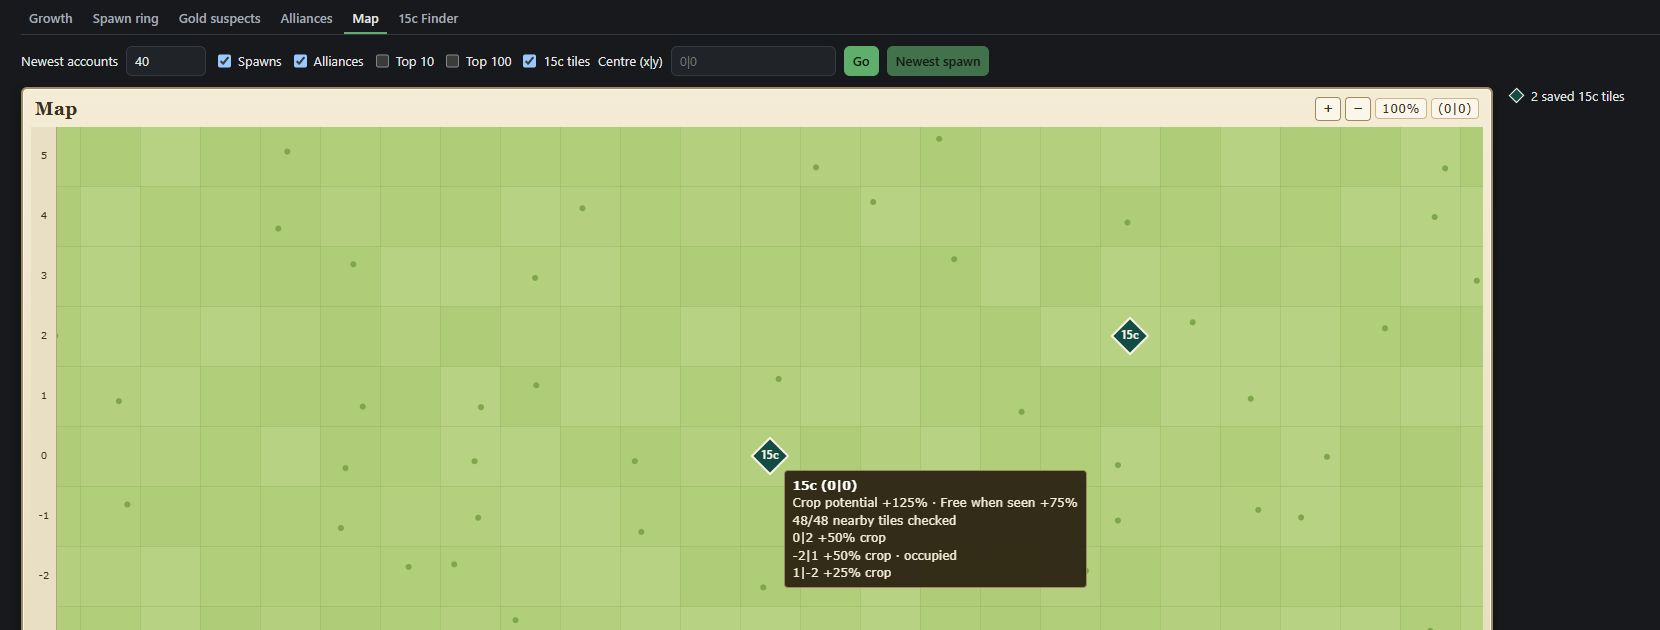
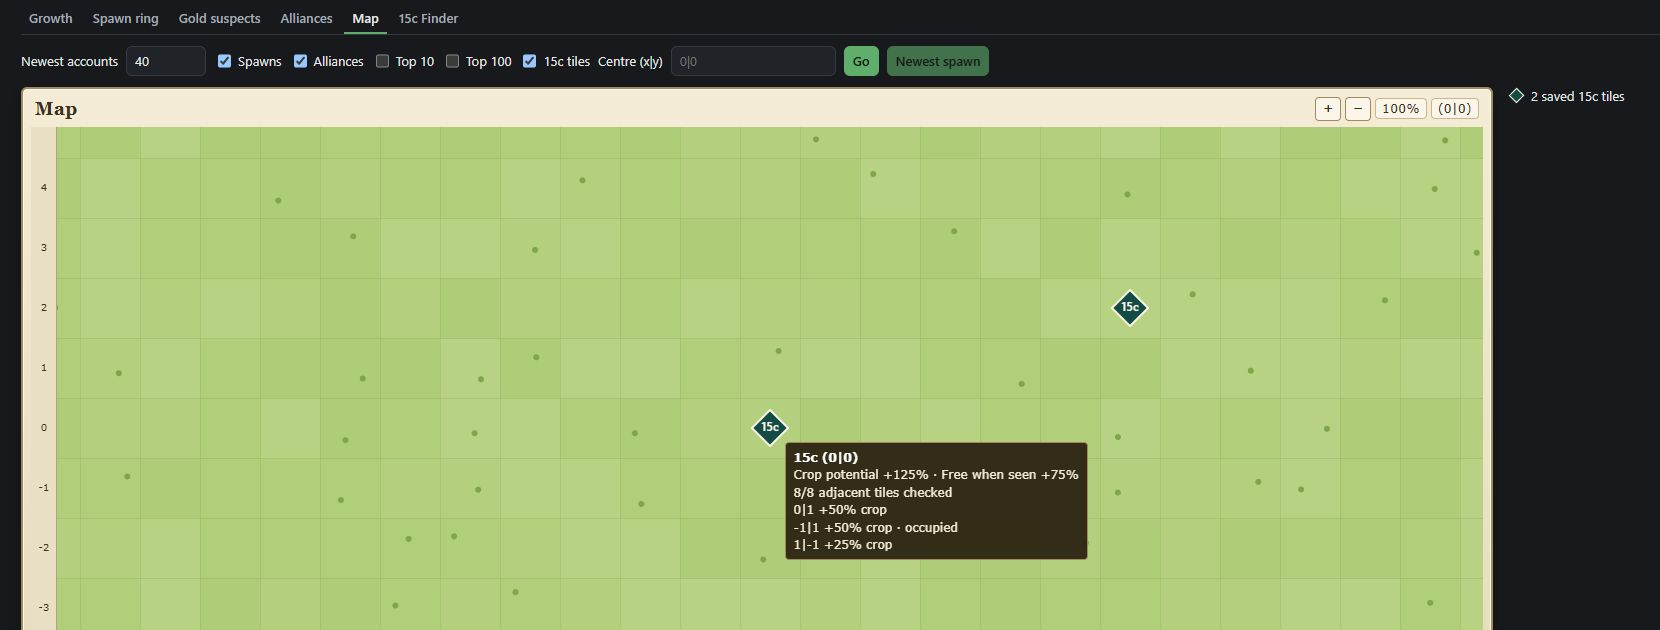
Keep valid cropper tiles in mixed map batches

Changed region(s): [[0.4301, 0.6635, 0.6759, 0.9349], [0.6452, 0.4524, 0.7066, 0.573]]

diff --git a/projects/travian-extensions/extensions/WorldWatch/cropper-collector.js b/projects/travian-extensions/extensions/WorldWatch/cropper-collector.js
@@ -1,16 +1,25 @@
-// Read the coordinates and layout from the same visible game tooltip.
+// Read coordinates and layout from a game tooltip or the opened tile details.
 (() => {
 	"use strict";
-	const selector = '[role="tooltip"][data-theme="travian"][data-state="visible"]';
+	const selector = '#tileDetails, [role="tooltip"][data-theme="travian"][data-state="visible"]';
+	const cropperLayout = ["1", "1", "1", "15"];
 	const seen = new Set();
 	const coordinate = (el) => {
 		const text = el?.textContent.replace(/[\u061c\u200e\u200f\u202a-\u202e\u2066-\u2069()\s]/g, "").replace(/−/g, "-");
 		return /^-?\d+$/.test(text) ? Number(text) : NaN;
 	};
 
-	function inspect(tooltip) {
-		if (!/(?<![\d-])1\s*-\s*1\s*-\s*1\s*-\s*15\s*$/.test(tooltip.querySelector(".title")?.textContent ?? "")) return;
-		const pair = tooltip.querySelector(".coordinatesWrapper");
+	function inspect(tile) {
+		let pair;
+		if (tile.id === "tileDetails") {
+			const rows = [...tile.querySelectorAll("#distribution tr")];
+			if (rows.length !== 4 || !cropperLayout.every((count, i) => rows.some((row) =>
+				row.querySelector(`.ico .r${i + 1}`) && row.querySelector(".val")?.textContent.trim() === count))) return;
+			pair = tile.querySelector("h1 .coordinatesWrapper");
+		} else {
+			if (!/(?<![\d-])1\s*-\s*1\s*-\s*1\s*-\s*15\s*$/.test(tile.querySelector(".title")?.textContent ?? "")) return;
+			pair = tile.querySelector(".coordinatesWrapper");
+		}
 		const x = coordinate(pair?.querySelector(".coordinateX"));
 		const y = coordinate(pair?.querySelector(".coordinateY"));
 		if (![x, y].every(Number.isSafeInteger)) return;
@@ -25,8 +34,8 @@
 	const observer = new MutationObserver((records) => {
 		for (const record of records) {
 			const target = record.target.nodeType === 1 ? record.target : record.target.parentElement;
-			const tooltip = target?.closest(selector);
-			if (tooltip) inspect(tooltip);
+			const tile = target?.closest(selector);
+			if (tile) inspect(tile);
 			for (const node of record.addedNodes) {
 				if (node.nodeType !== 1) continue;
 				if (node.matches(selector)) inspect(node);

diff --git a/projects/travian-extensions/extensions/WorldWatch/lib/croppers.js b/projects/travian-extensions/extensions/WorldWatch/lib/croppers.js
@@ -3,6 +3,7 @@
 	"use strict";
 	// Travian's map dictionary (karte.json) maps f6 to 1-1-1-15.
 	const cropperTitle = /^\s*\{k\.vt\}\s*\{k\.f6\}\s*$/;
+	const OASIS_RADIUS = 1;
 
 	function mapResponseHost(rawUrl) {
 		const url = URL.parse(rawUrl);
@@ -45,8 +46,8 @@
 		const nearby = [];
 		let seen = 0;
 		const wrap = (n) => ((n + 200) % 401 + 401) % 401 - 200;
-		for (let dy = -3; dy <= 3; dy++) {
-			for (let dx = -3; dx <= 3; dx++) {
+		for (let dy = -OASIS_RADIUS; dy <= OASIS_RADIUS; dy++) {
+			for (let dx = -OASIS_RADIUS; dx <= OASIS_RADIUS; dx++) {
 				if (!dx && !dy) continue;
 				const ox = wrap(x + dx), oy = wrap(y + dy);
 				const observation = observations[`${ox}|${oy}`];
@@ -58,7 +59,7 @@
 		nearby.sort((a, b) => b.crop - a.crop || Number(a.occupied) - Number(b.occupied) || a.distance - b.distance);
 		const best = nearby.slice(0, 3);
 		const sum = (list) => list.reduce((total, oasis) => total + oasis.crop, 0);
-		return { seen, best, potential: sum(best), free: sum(nearby.filter((oasis) => !oasis.occupied).slice(0, 3)) };
+		return { seen, total: (2 * OASIS_RADIUS + 1) ** 2 - 1, best, potential: sum(best), free: sum(nearby.filter((oasis) => !oasis.occupied).slice(0, 3)) };
 	}
 
 	root.WWCroppers = { mapResponseHost, mapTiles, oasisScore };

diff --git a/projects/travian-extensions/extensions/WorldWatch/background.js b/projects/travian-extensions/extensions/WorldWatch/background.js
@@ -32,10 +32,12 @@ async function saveTiles(host, observations, fromMap) {
 }
 
 function queueTiles(host, tiles, sendResponse, fromMap = false) {
-	if (!host || !Array.isArray(tiles) || !tiles.length || tiles.length > 2000 || !tiles.every((tile) =>
+	if (!host || !Array.isArray(tiles) || !tiles.length || tiles.length > 2000) return false;
+	const valid = tiles.filter((tile) =>
 		tile && [tile.x, tile.y].every((n) => Number.isInteger(n) && Math.abs(n) <= 200) &&
-		(!fromMap || ([0, 25, 50].includes(tile.crop) && (!tile.crop || typeof tile.occupied === "boolean"))))) return false;
-	const write = cropperWrites.then(() => saveTiles(host, tiles, fromMap));
+		(!fromMap || ([0, 25, 50].includes(tile.crop) && (!tile.crop || typeof tile.occupied === "boolean"))));
+	if (!valid.length) return false;
+	const write = cropperWrites.then(() => saveTiles(host, valid, fromMap));
 	cropperWrites = write.catch(() => {});
 	write.then(() => sendResponse({ ok: true }), () => sendResponse({ ok: false }));
 	return true;

diff --git a/projects/travian-extensions/extensions/WorldWatch/dashboard.js b/projects/travian-extensions/extensions/WorldWatch/dashboard.js
@@ -163,7 +163,7 @@
 			const host = $("host").value;
 			const rows = (await scoredCroppers(host)).map((tile) => ({
 				point: `${tile.x}|${tile.y}`, layout: "1-1-1-15", seen: fmtTime(tile.seenAt),
-				potential: bonus(tile.potential, tile.seen), free: bonus(tile.free, tile.seen), coverage: `${tile.seen}/48`,
+				potential: bonus(tile.potential, tile.seen), free: bonus(tile.free, tile.seen), coverage: `${tile.seen}/${tile.total}`,
 				oases: tile.best.map(({ x, y, crop, occupied }) => `${x}|${y} +${crop}% (${occupied ? "occupied" : "free"})`).join(", ") || "—",
 				href: `https://${host}/map?x=${tile.x}&y=${tile.y}`,
 			}));

diff --git a/projects/travian-extensions/extensions/WorldWatch/dashboard.html b/projects/travian-extensions/extensions/WorldWatch/dashboard.html
@@ -34,7 +34,7 @@
 		</nav>
 		<section id="controls-croppers" class="row" aria-label="15c Finder" hidden>
 			<a id="cropper-map" target="_blank" rel="noopener" hidden>Open game map</a>
-			<span class="summary">Pan the game map at 100% with DevTools open to collect 15c tiles and oasis data. Confirm availability in-game.</span>
+			<span class="summary">Pan at 100% with DevTools open to collect 15c tiles and 3 × 3 oasis data. Opening a 15c tile in-game also saves it.</span>
 		</section>
 		<section id="controls-map" class="row" hidden>
 			<label for="map-count">Newest accounts</label>

diff --git a/projects/travian-extensions/extensions/WorldWatch/map-view.js b/projects/travian-extensions/extensions/WorldWatch/map-view.js
@@ -471,7 +471,7 @@
 			if (cropper) {
 				lines[0] = `15c (${fx}|${fy})`;
 				lines.push(cropper.seen ? `Crop potential +${cropper.potential}% · Free when seen +${cropper.free}%` : "Oasis bonuses unknown");
-				lines.push(`${cropper.seen}/48 nearby tiles checked`);
+				lines.push(`${cropper.seen}/${cropper.total} adjacent tiles checked`);
 				for (const oasis of cropper.best) lines.push(`${oasis.x}|${oasis.y}  +${oasis.crop}% crop${oasis.occupied ? " · occupied" : ""}`);
 			}
 			if (i != null) {

diff --git a/projects/travian-extensions/extensions/WorldWatch/README.md b/projects/travian-extensions/extensions/WorldWatch/README.md
@@ -19,16 +19,16 @@ Tracks a Travian Legends game world over time from its public `map.sql` dump. Us
 | Spawn ring | Per quadrant (NE/NW/SE/SW): the newest N accounts by uid (default 40). Spawn village = lowest village id per account. Min, median and max distance from 0\|0 and the newest spawn coordinates. |
 | Gold suspects | Population gain per account between two snapshots, gain per hour, Δ villages and distance to a point. Rows above the 99th percentile gain are highlighted. Only accounts present in both snapshots are compared. A Δ villages above 0 means part of the gain comes from a new or conquered village. |
 | Alliances | Members, villages, population, population-weighted centre and main quadrant. |
-| 15c Finder | Confirmed `1-1-1-15` tiles ranked by the best three observed crop bonuses in their 7 × 7 area. The table shows the potential, how much was free when observed, and how much of the area was checked. Click a coordinate to reopen the tile. |
+| 15c Finder | Confirmed `1-1-1-15` tiles ranked by the best three observed crop bonuses in their centered 3 × 3 area. The table shows the potential, how much was free when observed, and how much of the area was checked. Click a coordinate to reopen the tile. |
 | Map | Travian-style map: 60 px per field at 100 %, like the in-game map. The window fills the free page area (at least 543 × 401 px, the in-game size). Zoom from 100 % down to the whole world; drag to pan, mouse wheel to zoom. Lines mark the world edge at ±200. Newest spawns are highlighted and their distance band from 0\|0 is shaded; the top 10 alliances are coloured and labelled at their centre. **Top 10** and **Top 100** mark the largest accounts by population (red and white rings); Top 10 are labelled with rank and name at their largest village. Hover a field for player, alliance, population and rank. |
 
 **Your village:** `own-village.js` reads your player name and village list (names and coordinates) from the game sidebar on any page you open in that world, and stores them per world. The dashboard then shows a **Your village** selector, fills **Point (x|y)** and **Centre (x|y)** with the selected village (the inputs stay editable; a typed value is not overwritten), and rings your villages blue on the map.
 
 Every table exports to CSV. Nature and Natar villages are ignored. Positive y is north. Distances wrap around the 401 × 401 map.
 
-**Finding a 15c:** Open DevTools (`F12`) in the game tab, then open the map or reload it and pan normally. World Watch reads the game's completed map responses and saves confirmed `1-1-1-15` coordinates locally, even if the world is not on the watch list. You can also hover over valleys to save individual matches with DevTools closed. The finder does not track current occupancy. Check the tile in-game before settling. Collection is disabled on Europe 1 (`ts1.x1.europe.travian.com`).
+**Finding a 15c:** Open DevTools (`F12`) in the game tab, then open the map or reload it and pan normally. World Watch reads the game's completed map responses and saves confirmed `1-1-1-15` coordinates locally, even if the world is not on the watch list. Hover over a valley or open its details to save individual matches with DevTools closed. The finder does not track current occupancy. Check the tile in-game before settling. Collection is disabled on Europe 1 (`ts1.x1.europe.travian.com`).
 
-**Mapping and comparing 15c tiles:** Pan at 100% zoom with DevTools open to collect nearby oasis bonuses. In World Watch, the **Map** tab shows teal diamonds for saved 15c tiles, including worlds without a snapshot. Hover a marker for the best observed bonuses and coverage. Crop potential can include occupied oases. **Free when seen** counts only oases that were unoccupied at their last observation. Both totals are limited to three oases and are partial until all 48 surrounding tiles have been checked. Verify ownership and settlement availability in-game.
+**Mapping and comparing 15c tiles:** Pan at 100% zoom with DevTools open to collect nearby oasis bonuses. In World Watch, the **Map** tab shows teal diamonds for saved 15c tiles, including worlds without a snapshot. Hover a marker for the best observed bonuses and coverage. Crop potential can include occupied oases. **Free when seen** counts only oases that were unoccupied at their last observation. Both totals are limited to three oases and reflect the eight adjacent tiles in the finder’s 3 × 3 scoring area. Verify ownership and settlement availability in-game.
 
 ## Live mode
 

diff --git a/projects/travian-extensions/docs/USAGE.md b/projects/travian-extensions/docs/USAGE.md
@@ -171,7 +171,7 @@ Refreshes when you open the popup or click **Refresh**; there are no background 
 4. **Growth** lists sign-ups (highest account id) per snapshot. **Spawn ring** shows, per quadrant, the distance range of the newest accounts' first villages; change **Newest accounts** to widen the sample.
 5. **Gold suspects** ranks accounts by population gain between the two snapshots. Enter a point (`x|y`) and a radius to limit the list to accounts with a village nearby. Highlighted rows are above the 99th percentile; check **Δ villages**, because a new or conquered village also raises population.
 6. **Map** opens at 100 % (60 px per field, as in game) on the newest spawn. Yellow villages are the newest accounts; the yellow band is their distance from 0|0. Coloured villages and labels are the top 10 alliances. Drag to pan, use the wheel or **+**/**−** to zoom down to the whole world, and enter **Centre (x|y)** to jump. Lines mark the world edge. Tick **Top 10** or **Top 100** to ring the largest accounts by population; Top 10 are labelled and listed in the legend. Hover a village for its owner.
-7. **15c Finder** ranks saved 15c tiles by the crop bonus of the best three observed oases in the surrounding 7 × 7 area. Open DevTools (F12) in the game tab, reload the map at 100% and pan normally to collect tile data. Hovering with DevTools closed saves individual 15c matches. The **Map** tab marks saved tiles with teal diamonds. Hover a diamond for the potential, how much was free when seen, and the number of nearby tiles checked. Confirm availability in-game. Collection is disabled on Europe 1.
+7. **15c Finder** ranks saved 15c tiles by the crop bonus of the best three observed oases in the centered 3 × 3 area. Open DevTools (F12) in the game tab, reload the map at 100% and pan normally to collect tile data. Hover or open the tile details to save individual 15c matches with DevTools closed. The **Map** tab marks saved tiles with teal diamonds. Hover a diamond for the potential, how much was free when seen, and the number of nearby tiles checked. Confirm availability in-game. Collection is disabled on Europe 1.
 8. **CSV** downloads the visible table.
 
 <a href="images/world-watch-croppers.jpg"><img src="images/world-watch-croppers.jpg" alt="Sample World Watch map with 15c markers and a crop oasis bonus tooltip" width="520" /></a>

diff --git a/projects/travian-extensions/README.md b/projects/travian-extensions/README.md
@@ -17,7 +17,7 @@ Eight standalone browser extensions for Travian: forecasting, statistics history
 | <a id="next-settlement-calc"></a>[Next Settlement Calc](extensions/NextSettlementCalc/) | Culture-point forecasts and celebration planning | 2.6.5 |
 | <a id="npc-automerchant"></a>[NPC AutoMerchant](extensions/automerchant/) | Troop resource calculations and hero-transfer assistance | 3.2.3 |
 | <a id="night-mode"></a>[Night Mode](extensions/travian_night_mode/) | Persistent dark theme and button colours | 2.6.1 |
-| <a id="world-watch"></a>[World Watch](extensions/WorldWatch/) | World snapshots, spawn map, population gains, alliances and a 15c finder with oasis scoring | 1.7.0 |
+| <a id="world-watch"></a>[World Watch](extensions/WorldWatch/) | World snapshots, spawn map, population gains, alliances and a 15c finder with oasis scoring | 1.7.1 |
 
 ## Install in Brave, Chrome, or Edge
 

diff --git a/projects/travian-extensions/CHANGELOG.md b/projects/travian-extensions/CHANGELOG.md
@@ -16,6 +16,10 @@
 
 - Required amounts appear in amber, projected stock turns green at or above the resource target, and transfer inputs use the game's text color.
 
+## World Watch 1.7.1 — 2026-11-17
+
+- Keep valid 15c rows when a map batch includes invalid rows. Opening a confirmed 15c tile in-game also saves it with DevTools closed. Oasis scoring now covers the eight adjacent tiles in a centered 3 × 3 square.
+
 ## World Watch 1.7.0 — 2026-11-17
 
 - Shows saved 15c tiles on the World Watch map and compares the best three observed crop oasis bonuses around them. The finder separates potential from bonuses that were free when observed and reports tile coverage.
